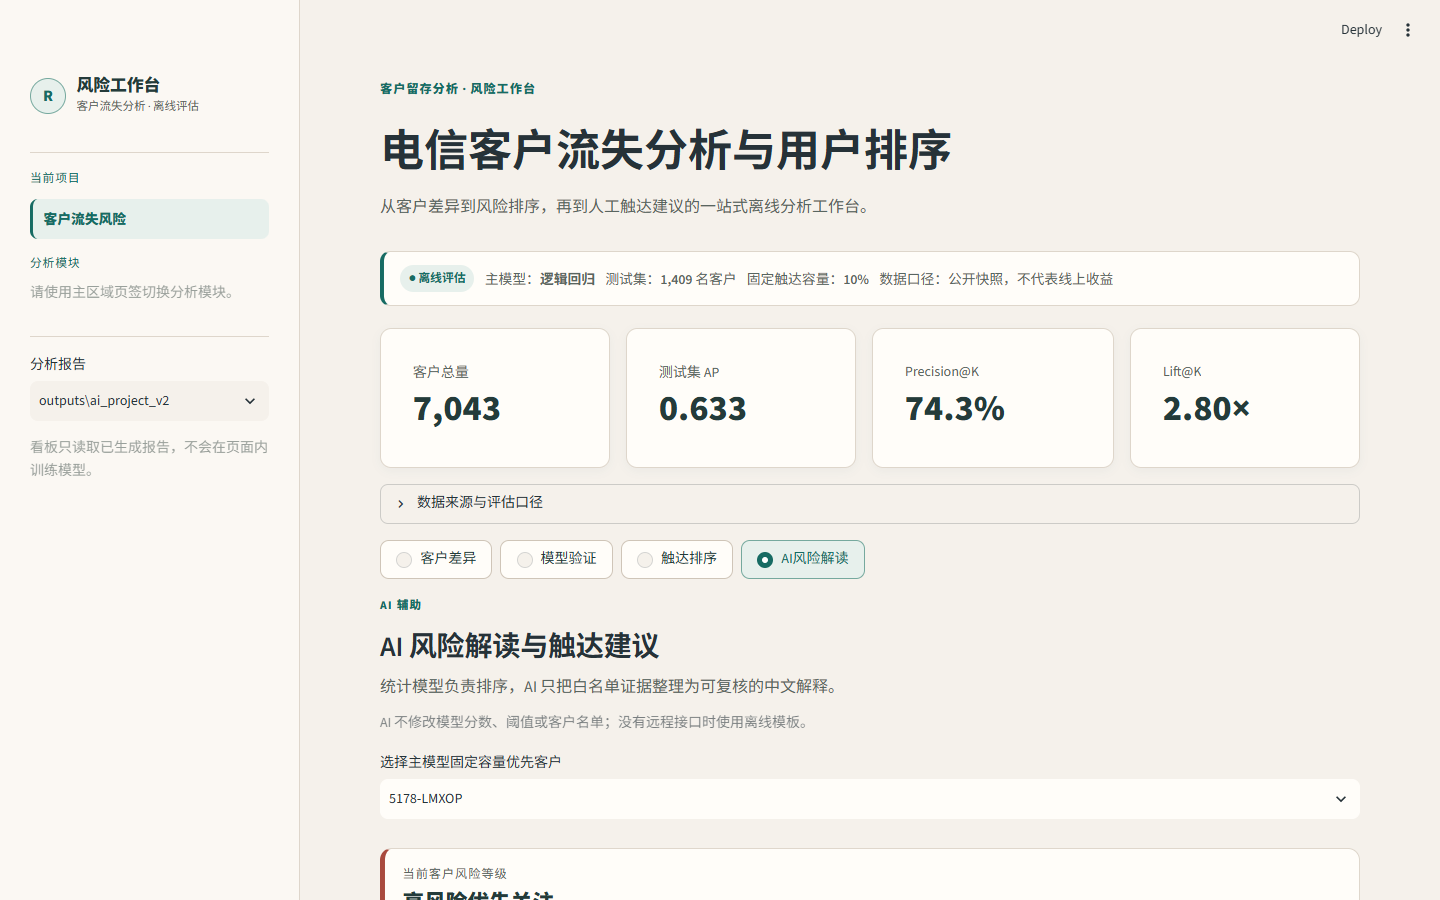
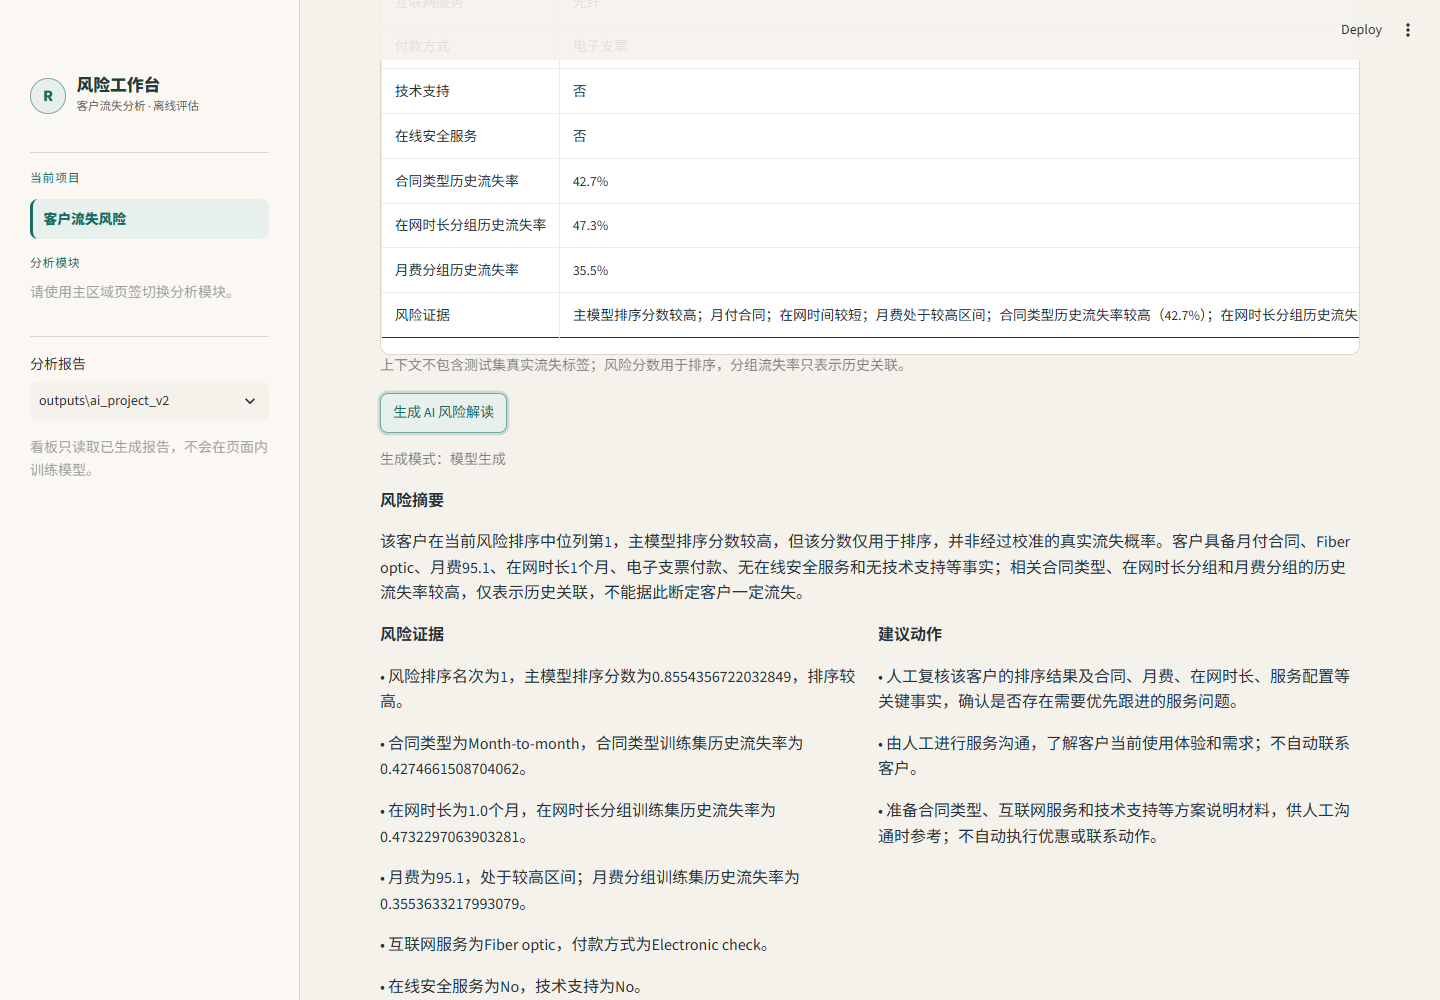
renew2

diff --git a/README.md b/README.md
@@ -123,6 +123,8 @@
 
 ![AI 风险解读看板](./docs/demo-ai.png)
 
+上图为看板实际调用已配置的远程兼容接口后生成的结果，页面显示“模型生成”，包含风险摘要、风险证据和建议动作；不是离线模板截图。
+
 展示固定 10% 优先名单中的客户，以及基于白名单字段生成的风险摘要、证据和人工触达建议。页面会标出当前使用的报告和主模型，便于把 AI 输出与排序结果对应起来；未配置远程接口时使用离线模板，不需要本地模型。AI 不读取测试集真实流失标签，也不修改模型分数、阈值或入选名单。
 
 ## 快速开始
